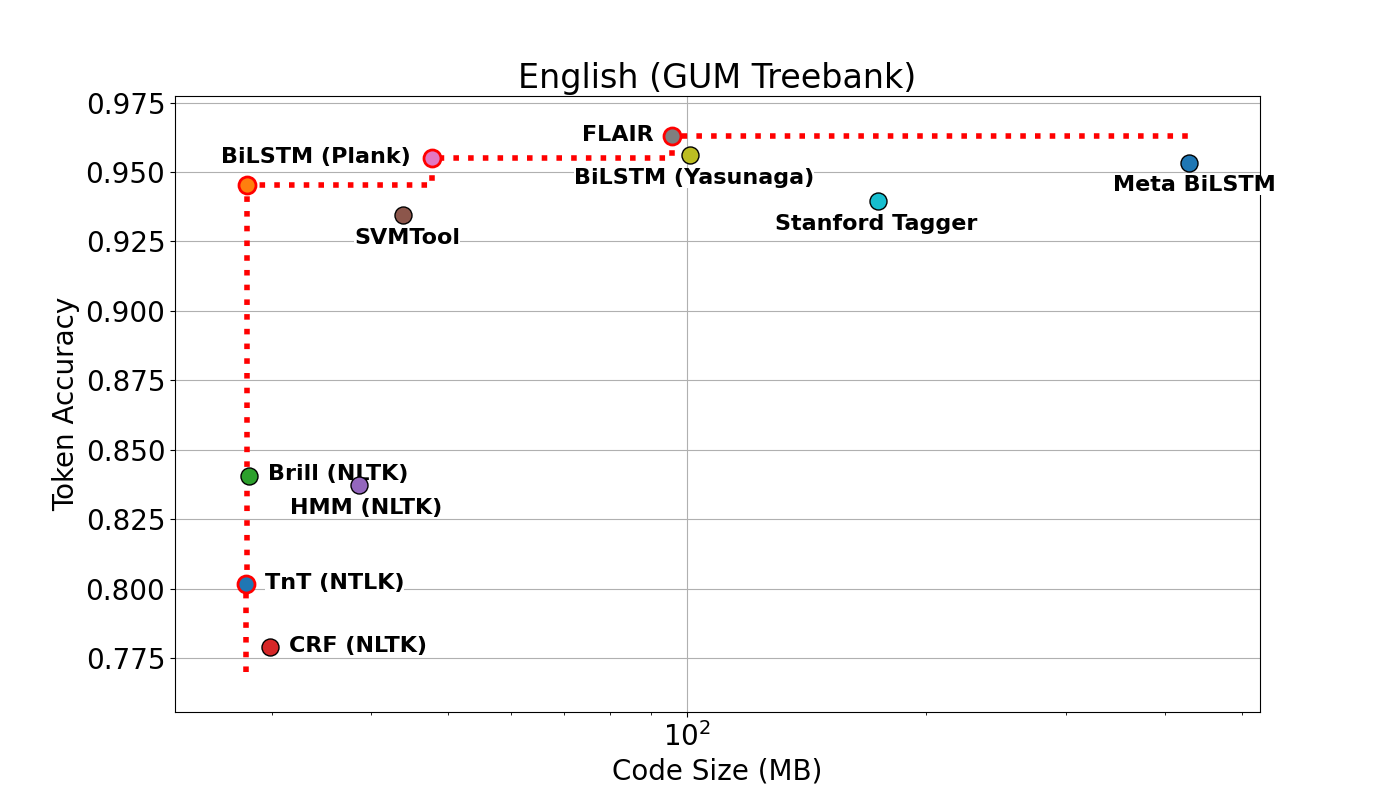
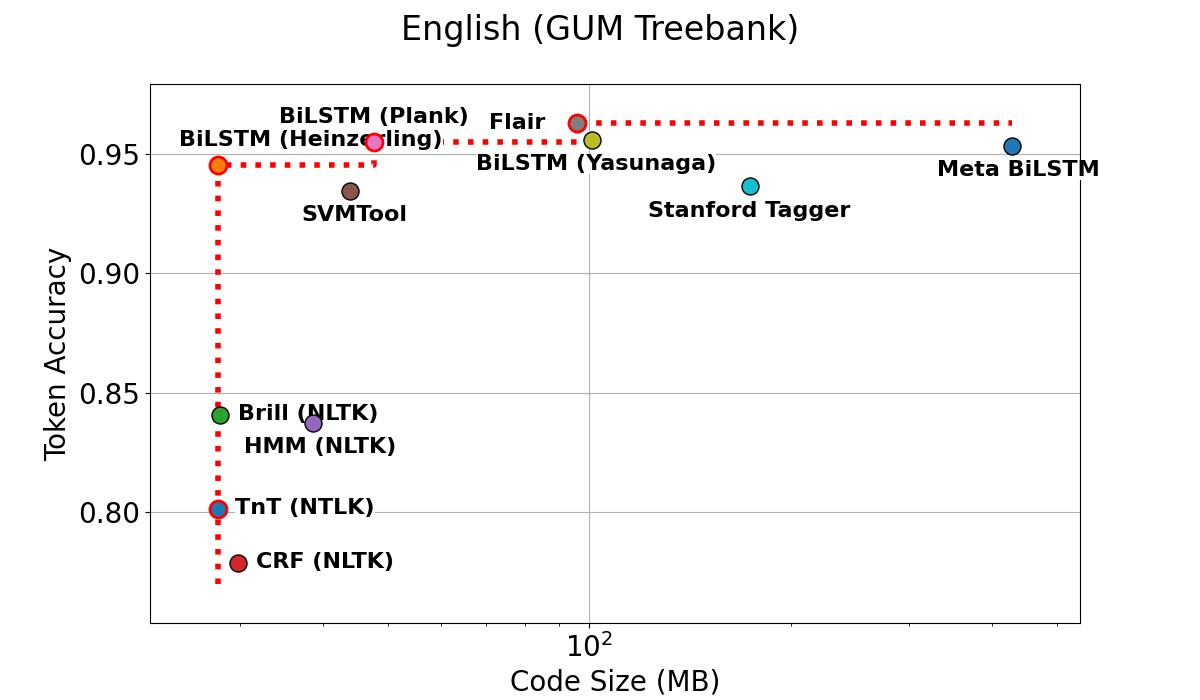
Fixed a thing, updated some things.

diff --git a/src/statistics.py b/src/statistics.py
@@ -1,5 +1,6 @@
 from glob import glob
 from os import path
+import math
 from util import data_archives
 
 def find_value(lines, key):
@@ -69,12 +70,7 @@ def format_size(size):
             num = num / 1000
             unit = "GB"
 
-    if num > 99:
-        formatted = f"{num:.1f}"
-    elif num > 9:
-        formatted = f"{num:.2f} "
-    else:
-        formatted = f"{num:.3f}"
+    formatted = f"{num:.4}"
     if len(formatted) != 5:
         formatted = formatted + ("0" * (5 - len(formatted)))
     return formatted + " " + unit
@@ -116,7 +112,10 @@ def save_size_measurements():
         for metric_data in model_sizes:
             for model_data in metric_data:
                 if model_name == model_data:
-                    avg = sum(metric_data[model_data]) / len(metric_data[model_data])
+                    sum_data = sum(metric_data[model_data])
+                    len_data = len(metric_data[model_data])
+                    avg = sum_data / len_data
+                    std_dev = math.sqrt((1 / (len_data - 1)) * sum((x - avg) ** 2 for x in metric_data[model_data]))
                     formatted = format_size(avg)
                     model_list.append(formatted)
         reformatted.append(model_list)
@@ -137,7 +136,7 @@ def get_sentences(lang, treebank, dataset_type):
                 sentences.append(curr_sentences)
                 curr_sentences = []
             else:
-                curr_sentences.append(line.split(None)[0])
+                curr_sentences.append(line.split("\t")[0])
         return sentences
 
 def flatten(arr):
@@ -155,29 +154,36 @@ def save_dataset_stats():
             train_sentences = len(train_sentence_list)
             train_token_list = flatten(train_sentence_list)
             train_tokens = len(train_token_list)
+            unique_train_tokens = len(set(train_token_list))
 
             test_sentence_list = get_sentences(lang, treebank, "test")
             test_sentences = len(test_sentence_list)
             test_token_list = flatten(test_sentence_list)
             test_tokens = len(test_token_list)
+            unique_test_tokens = len(set(test_token_list))
 
             dev_sentence_list = get_sentences(lang, treebank, "dev")
             dev_sentences = len(dev_sentence_list)
             dev_token_list = flatten(dev_sentence_list)
             dev_tokens = len(dev_token_list)
+            unique_dev_tokens = len(set(dev_token_list))
 
             total_sentences = train_sentences + test_sentences + dev_sentences
             total_tokens = train_tokens + test_tokens + dev_tokens
 
+            train_set = set(train_token_list)
+            test_set = set(test_token_list)
+            test_not_in_train = len(list(filter(lambda x: x in train_set, test_token_list))) / len(test_token_list)
+            print(test_not_in_train)
             #test_not_in_train = len(set(test_token_list) - set(train_token_list))
             #dev_not_in_train = len(set(dev_token_list) - set(train_token_list))
 
             # test_not_in_train_ratio = test_not_in_train / train_tokens
             # dev_not_in_train_ratio = dev_not_in_train / train_tokens
             embeddings, dims = data_archives.load_embeddings(lang)
-            train_not_in_emb = (len(set(train_token_list) - set(embeddings)) / train_tokens) * 100
-            test_not_in_emb = (len(set(test_token_list) - set(embeddings)) / test_tokens) * 100
-            dev_not_in_emb = (len(set(dev_token_list) - set(embeddings)) / dev_tokens) * 100
+            train_not_in_emb = (len(set(train_token_list) - set(embeddings)) / unique_train_tokens) * 100
+            test_not_in_emb = (len(set(test_token_list) - set(embeddings)) / unique_test_tokens) * 100
+            dev_not_in_emb = (len(set(dev_token_list) - set(embeddings)) / unique_dev_tokens) * 100
 
             line = (
                 f"{total_tokens}\t{total_sentences}\t{len(embeddings)}\t{dims}\t"
@@ -186,4 +192,4 @@ def save_dataset_stats():
             fp.write(line)
 
 if __name__ == "__main__":
-    save_dataset_stats()
+    save_size_measurements()

diff --git a/src/plotting.py b/src/plotting.py
@@ -21,7 +21,7 @@ POS_OFFSETS = {
     ],
     "en_token_code": [
         EAST, NORTH, EAST, EAST, SOUTH, SOUTH,
-        WEST, WEST, SOUTH, SOUTH, SOUTH
+        NORTH, WEST, SOUTH, SOUTH, SOUTH
     ],
     "en_token_model": [
         NORTH, EAST, NORTH, EAST, WEST, SOUTH,
@@ -32,13 +32,15 @@ POS_OFFSETS = {
         WEST, NORTH, SOUTH, EAST, SOUTH
     ]
 }
+
 ANNOTATE_VALUES = False
+SHARED_PLOT = False
 
 PROPER_MODEL_NAMES = {
     "bert_bpemb": "BiLSTM (Heinzerling)",
     "bilstm_aux": "BiLSTM (Plank)",
     "bilstm_crf": "BiLSTM (Yasunaga)",
-    "flair": "FLAIR",
+    "flair": "Flair",
     "svmtool": "SVMTool",
     "stanford": "Stanford Tagger",
     "tnt": "TnT (NTLK)",
@@ -130,13 +132,13 @@ def plot_data(
         else:
             text_max = len(text_1)
 
-        y -= 8
-        pixel_per_char = 3.2
+        y -= 10
+        pixel_per_char = 3.8
         x -= (int(text_max) * pixel_per_char) + 1
-        offset_x = (10 + int(text_max) * pixel_per_char)
+        offset_x = (11 + int(text_max) * pixel_per_char)
         if model == "hmm":
             offset_x += 10
-        y_gap = 5
+        y_gap = 6
         offset_y_1 = y_gap
         offset_y_3 = -y_gap * 3 
         xy_text = (0, 0)
@@ -169,6 +171,9 @@ def plot_data(
         x_1, y_1 = axis.transData.inverted().transform((x, y_1))
         x_2, y_2 = axis.transData.inverted().transform((x, y_2))
         x_3, y_3 = axis.transData.inverted().transform((x, y_3))
+
+        if x_3 < axis.get_xlim()[0]:
+            x_3 = axis.get_xlim()[0] + 0.1
 
         if directions[index] == ARROW_SOUTH:
             # Our text wont fit. Draw text elsewhere and draw an arrow pointing to it.
@@ -240,23 +245,35 @@ def plot_pareto(data, axis):
 def plot_results(language, acc_metric, size_metric, save_to_file):
     results = load_results()
     treebank = get_default_treebank(language)
-    fig, ax = plt.subplots()
-    ax.set_title(f"{LANGS_FULL[language].capitalize()} ({treebank.upper()} Treebank)")
-    ax.set_xscale("log")
+    fig, axes = plt.subplots(2, 2, sharey=True) if SHARED_PLOT else plt.subplots()
+    if not SHARED_PLOT:
+        axes = [axes]
+    else:
+        axes = axes.ravel()
 
-    directions = POS_OFFSETS[f"{language}_{acc_metric}_{size_metric}"]
-    sorted_data = sort_data_by_size(results[language], acc_metric, size_metric)
-    models_on_skyline = plot_pareto(sorted_data, ax)
-    plot_data(sorted_data, models_on_skyline, ax, directions, acc_metric, size_metric)
+    title = f'{LANGS_FULL[language].capitalize()} ({treebank.upper()} Treebank)'
+
+    fig.suptitle(title)
+
+    for ax in axes:
+        #ax.set_title(f"{LANGS_FULL[language].capitalize()} ({treebank.upper()} Treebank)")
+        ax.set_xscale("log")
+
+        directions = POS_OFFSETS[f"{language}_{acc_metric}_{size_metric}"]
+        sorted_data = sort_data_by_size(results[language], acc_metric, size_metric)
+        models_on_skyline = plot_pareto(sorted_data, ax)
+        plot_data(sorted_data, models_on_skyline, ax, directions, acc_metric, size_metric)
 
     manager = plt.get_current_fig_manager()
     w, h = manager.window.maxsize()
     if w > 1920:
         w = 1920
     manager.resize(w, h)
-    fig.set_size_inches(14, 8)
 
-    plt.margins(0.075)
+    fig_w, fig_h = 12, 7
+    fig.set_size_inches(fig_w, fig_h)
+
+    plt.margins(0.085)
     if save_to_file:
         filename = f"plots/{language}_{treebank}-{acc_metric}_{size_metric}.png"
         plt.savefig(filename)

diff --git a/src/taggers/tagger_wrapper_import.py b/src/taggers/tagger_wrapper_import.py
@@ -88,7 +88,7 @@ class ImportedTagger(Tagger):
                 sentences.append(curr_sentences)
                 curr_sentences = []
             else:
-                curr_sentences.append(tuple(line.split(None)))
+                curr_sentences.append(tuple(line.split("\t")))
         return sentences
 
     def code_size(self):
